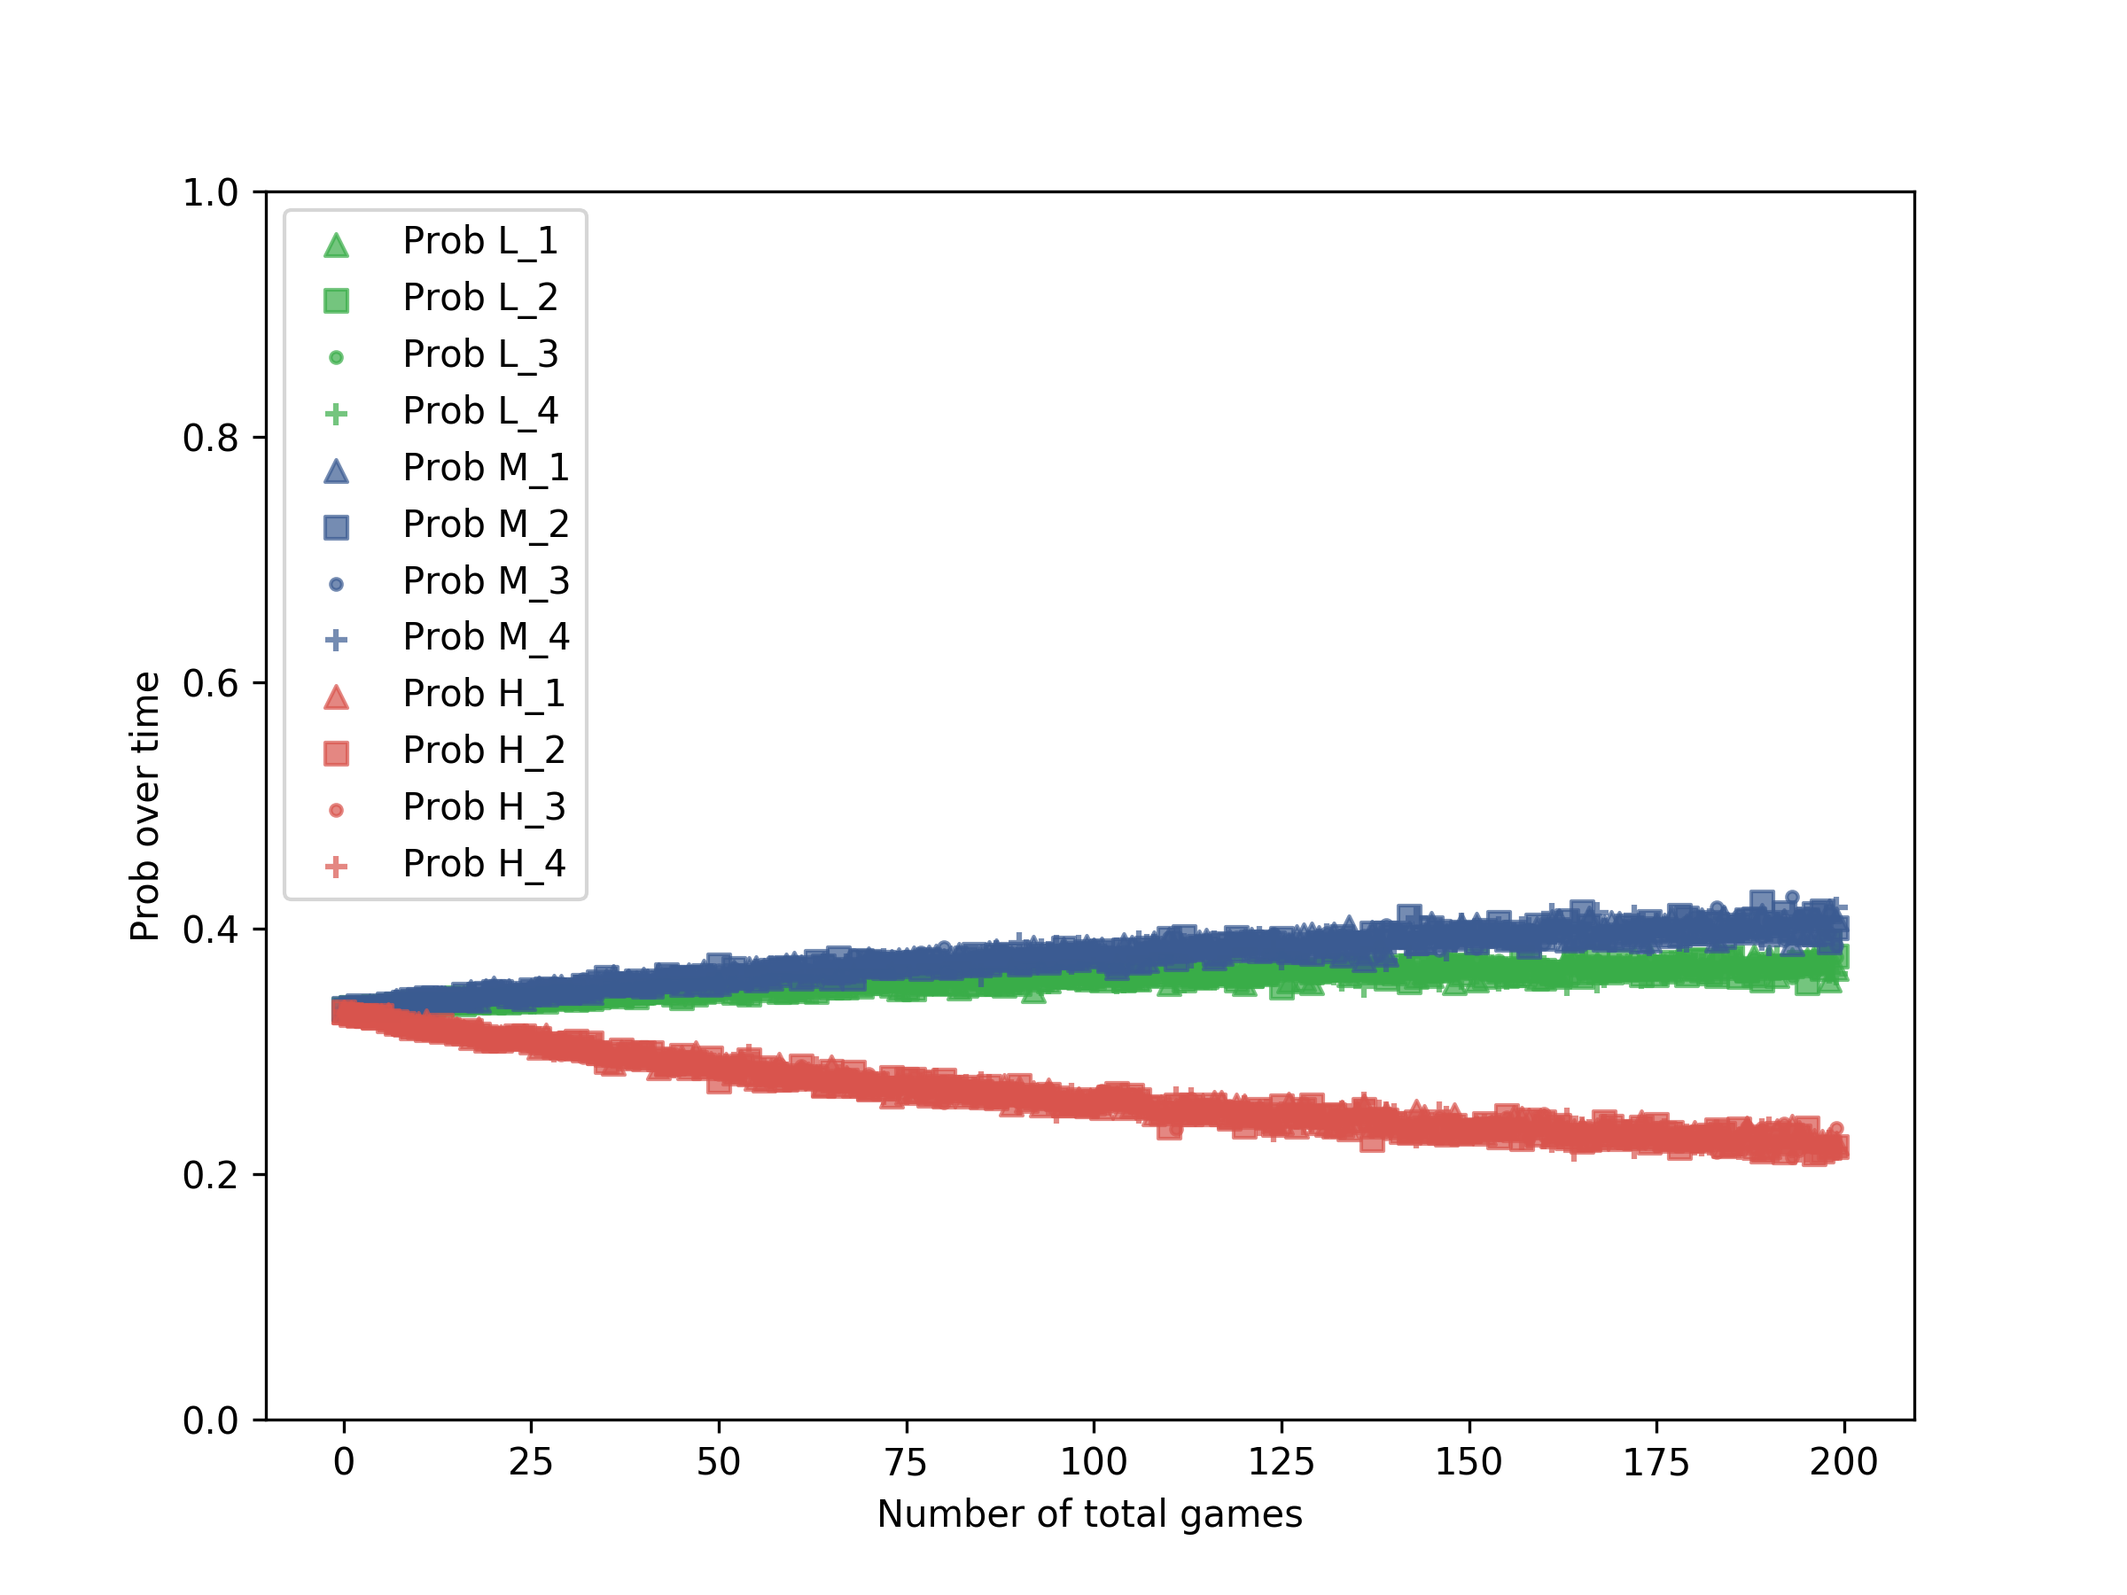
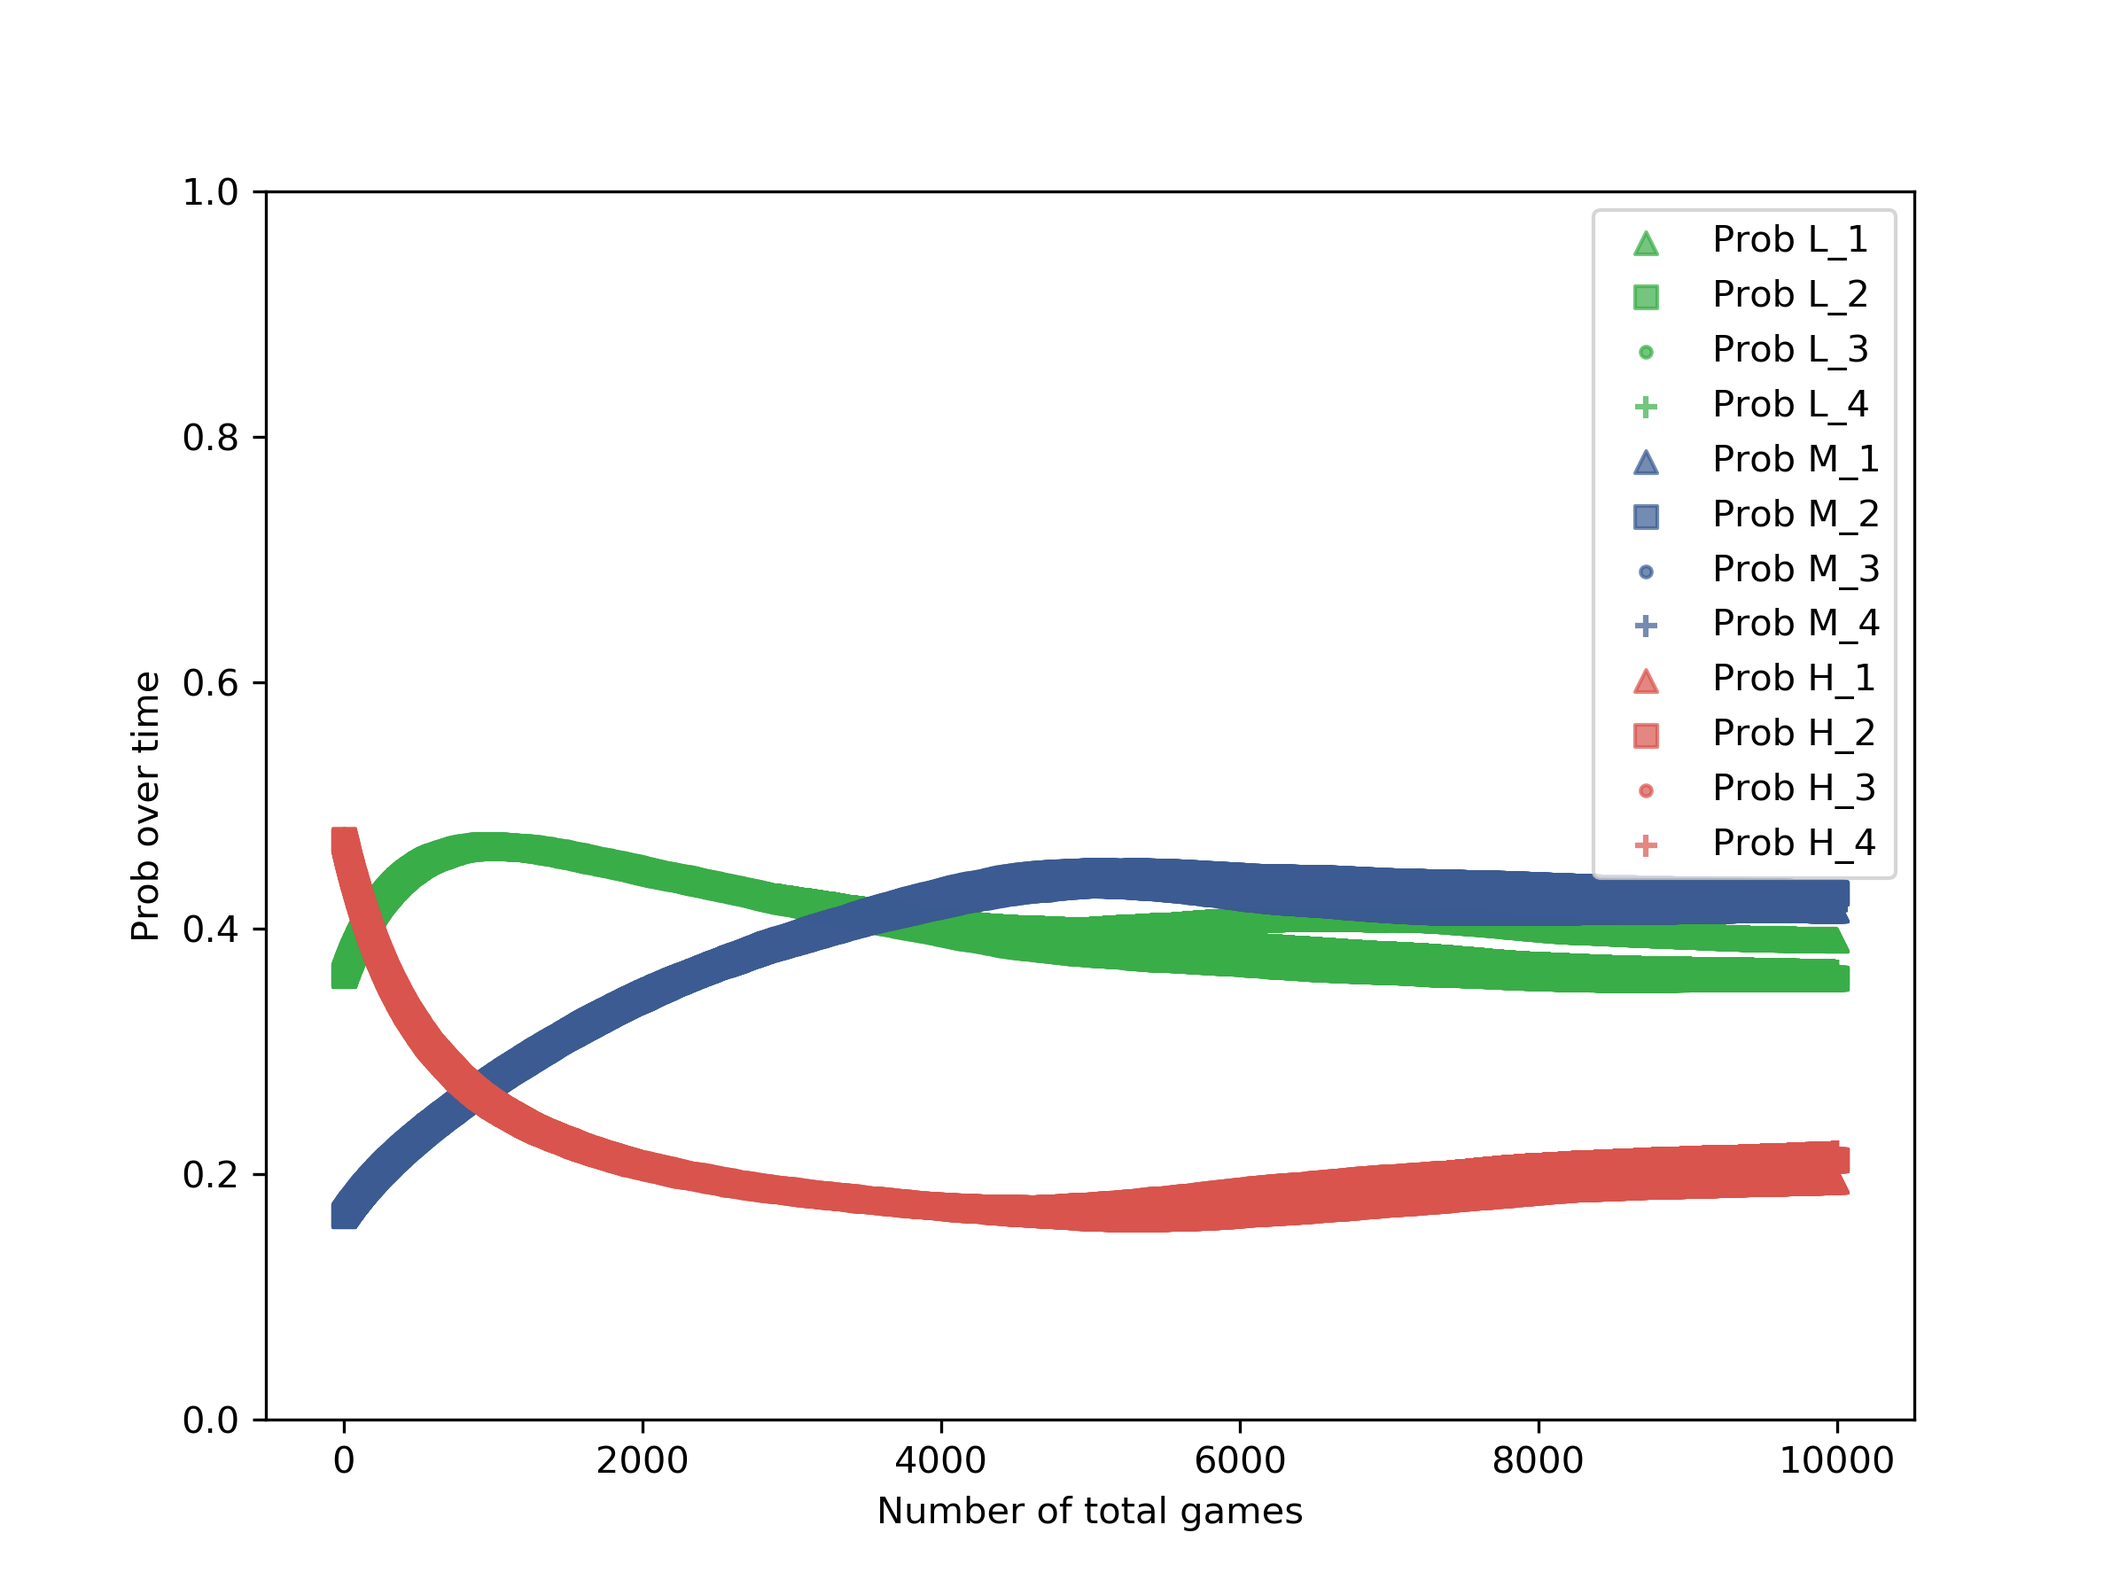
a great test

diff --git a/Find_NE.py b/Find_NE.py
@@ -19,11 +19,11 @@ from basic.advanced import *
 
 # basic setting
 
-max_game = 200
+max_game = 100000
 n_player = 4
 n_coin = 5
-n_test = 30
-lr = 5e-2
+n_test = 300
+lr = 1e-3
 bank_set_value("n_player", n_player)
 bank_set_value("n_coin", n_coin)
 bank_set_value("max_game", max_game)
@@ -62,159 +62,163 @@ choice = np.subtract(1, valid_table)
 history_prob = np.zeros((max_game, n_test, n_player, 3))
 
 # simulate
-for idx_game in range(max_game):
-
-    total_game = idx_game + 1
-
-    bank_set_value("total_game", total_game)
-    init_winner = np.zeros(n_player)
-
-    for idx_test in range(n_test):
-        game = A2F_Game()
-        para_list = copy.deepcopy(PARA_UNI)
-        for idx_round in range(total_game):
-
-            curr_action = invite_players(player_list=player_list,
-                                         game=game,
-                                         chessboard=chessboard,
-                                         para_list=para_list)
-
-            curr_round = A2F_Round(chessboard=chessboard, action=curr_action)
-
-            # two-direction training
-            curr_action_value = curr_action.get_value()
-            curr_result = np.sum(curr_action_value, axis=0)
-            new_para_list = []
-            for idx_update in range(n_player):
-                curr_aim = list(curr_action_value[idx_update]).index(1)
-                curr_coin = np.multiply(choice[idx_update], chessboard_value)
-                curr_sum = np.sum(curr_coin)
-                curr_para = para_list[idx_update]
-                loc_aim = reverse_table[idx_update][curr_aim]
-                if idx_update in [0, 1, 2, 3]:
-                    if curr_result[curr_aim] == 1:
-                        # right answer
-                        if curr_para[loc_aim] < 0.8:
-                            curr_para[loc_aim] *= 1+lr*(curr_coin[curr_aim]/curr_sum)
-                    else:
-                        # wrong answer
-                        if curr_para[loc_aim] > 0.1:
-                            curr_para[loc_aim] *= 1-lr*(curr_coin[curr_aim]/curr_sum)
-                temp_sum = np.sum(curr_para)
-                new_para = []
-                for idx in curr_para:
-                    new_para.append(idx/temp_sum)
-                if idx_round == max_game - 1:
-                    print("Round: ", idx_round, "Player: ", idx_update, "Prob: ", new_para)
-                new_para_list.append(new_para)
-                if idx_update in [0, 1, 2, 3]:
-                    history_prob[idx_game, idx_test, idx_update, :] = new_para
-
-            game.add_round(curr_round)
-            para_list = new_para_list
-            if idx_round == max_game - 1:
-                print("-------------------")
-
-
-        final_coin, best_player = game.winner()
-        init_winner += best_player
-
-    print(idx_game)
-    print(init_winner)
-    winning_rate[:, idx_game] = init_winner/n_test
-
-# draw curve
-time_stamp = datetime.datetime.now().strftime("-%Y-%m-%d-%H-%M")
-xmesh = np.array(range(max_game))
-plt.figure(figsize=(8, 6), dpi=300)
-plt.scatter(xmesh, winning_rate[0, :])
-plt.scatter(xmesh, winning_rate[1, :])
-plt.scatter(xmesh, winning_rate[2, :])
-plt.scatter(xmesh, winning_rate[3, :])
-plt.xlabel("Number of total games")
-plt.ylabel("Winning rate of players")
-plt.ylim(bottom=0, top=1)
-plt.legend(show_player_ID(player_list))
-plt.savefig("WinningRate_MaxGame"+time_stamp+".png")
-
-plt.figure(figsize=(8, 6), dpi=300)
-plt.scatter(xmesh, history_prob[:, 0, 0, 0], marker='^')
-plt.scatter(xmesh, history_prob[:, 0, 0, 1], marker='o')
-plt.scatter(xmesh, history_prob[:, 0, 0, 2], marker='s')
-
-plt.scatter(xmesh, history_prob[:, 0, 1, 0], marker='^')
-plt.scatter(xmesh, history_prob[:, 0, 1, 1], marker='o')
-plt.scatter(xmesh, history_prob[:, 0, 1, 2], marker='s')
-
-plt.scatter(xmesh, history_prob[:, 0, 2, 0], marker='^')
-plt.scatter(xmesh, history_prob[:, 0, 2, 1], marker='o')
-plt.scatter(xmesh, history_prob[:, 0, 2, 2], marker='s')
-
-plt.scatter(xmesh, history_prob[:, 0, 3, 0], marker='^')
-plt.scatter(xmesh, history_prob[:, 0, 3, 1], marker='o')
-plt.scatter(xmesh, history_prob[:, 0, 3, 2], marker='s')
-
-
-plt.xlabel("Number of total games")
-plt.ylabel("Prob over time")
-plt.ylim(bottom=0, top=1)
-plt.legend(["Prob L_1", "Prob M_1", "Prob H_!",
-            "Prob L_2", "Prob M_2", "Prob H_2",
-            "Prob L_3", "Prob M_3", "Prob H_3",
-            "Prob L_4", "Prob M_4", "Prob H_4"])
-plt.savefig("Prob"+time_stamp+".png")
-np.save("prob.npy",history_prob )
-
-
-# # simple find the prob
-# total_game = max_game
+# for idx_game in range(max_game):
 #
-# bank_set_value("total_game", total_game)
-# init_winner = np.zeros(n_player)
+#     total_game = idx_game + 1
 #
-# for idx_test in range(n_test):
-#     game = A2F_Game()
-#     para_list = copy.deepcopy(PARA_SYM_NE)
-#     for idx_round in range(total_game):
+#     bank_set_value("total_game", total_game)
+#     init_winner = np.zeros(n_player)
 #
-#         curr_action = invite_players(player_list=player_list,
-#                                      game=game,
-#                                      chessboard=chessboard,
-#                                      para_list=para_list)
+#     for idx_test in range(n_test):
+#         game = A2F_Game()
+#         para_list = copy.deepcopy(PARA_UNI)
+#         for idx_round in range(total_game):
 #
-#         curr_round = A2F_Round(chessboard=chessboard, action=curr_action)
+#             curr_action = invite_players(player_list=player_list,
+#                                          game=game,
+#                                          chessboard=chessboard,
+#                                          para_list=para_list)
 #
-#         # two-direction training
-#         curr_action_value = curr_action.get_value()
-#         curr_result = np.sum(curr_action_value, axis=0)
-#         new_para_list = []
-#         for idx_update in range(n_player):
-#             curr_aim = list(curr_action_value[idx_update]).index(1)
-#             curr_coin = np.multiply(choice[idx_update], chessboard_value)
-#             curr_sum = np.sum(curr_coin)
-#             curr_para = para_list[idx_update]
-#             loc_aim = reverse_table[idx_update][curr_aim]
-#             if curr_result[curr_aim] == 1:
-#                 # right answer
-#                 if curr_para[loc_aim] < 0.8:
-#                     curr_para[loc_aim] *= 1+lr*(curr_coin[curr_aim]/curr_sum)
-#             else:
-#                 # wrong answer
-#                 if curr_para[loc_aim] > 0.1:
-#                     curr_para[loc_aim] *= 1-lr*(curr_coin[curr_aim]/curr_sum)
-#             temp_sum = np.sum(curr_para)
-#             new_para = []
-#             for idx in curr_para:
-#                 new_para.append(idx/temp_sum)
+#             curr_round = A2F_Round(chessboard=chessboard, action=curr_action)
+#
+#             # two-direction training
+#             curr_action_value = curr_action.get_value()
+#             curr_result = np.sum(curr_action_value, axis=0)
+#             new_para_list = []
+#             for idx_update in range(n_player):
+#                 curr_aim = list(curr_action_value[idx_update]).index(1)
+#                 curr_coin = np.multiply(choice[idx_update], chessboard_value)
+#                 curr_sum = np.sum(curr_coin)
+#                 curr_para = para_list[idx_update]
+#                 loc_aim = reverse_table[idx_update][curr_aim]
+#                 if idx_update in [0, 1, 2, 3]:
+#                     if curr_result[curr_aim] == 1:
+#                         # right answer
+#                         if curr_para[loc_aim] < 0.8:
+#                             curr_para[loc_aim] *= 1+lr*(curr_coin[curr_aim]/curr_sum)
+#                     else:
+#                         # wrong answer
+#                         if curr_para[loc_aim] > 0.1:
+#                             curr_para[loc_aim] *= 1-lr*(curr_coin[curr_aim]/curr_sum)
+#                 temp_sum = np.sum(curr_para)
+#                 new_para = []
+#                 for idx in curr_para:
+#                     new_para.append(idx/temp_sum)
+#                 if idx_round == max_game - 1:
+#                     print("Round: ", idx_round, "Player: ", idx_update, "Prob: ", new_para)
+#                 new_para_list.append(new_para)
+#                 if idx_update in [0, 1, 2, 3]:
+#                     history_prob[idx_game, idx_test, idx_update, :] = new_para
+#
+#             game.add_round(curr_round)
+#             para_list = new_para_list
 #             if idx_round == max_game - 1:
-#                 print("Round: ", idx_round, "Player: ", idx_update, "Prob: ", new_para)
-#             new_para_list.append(new_para)
-#
-#         game.add_round(curr_round)
-#         para_list = new_para_list
-#         if idx_round == max_game - 1:
-#             print("-------------------")
+#                 print("-------------------")
 #
 #
-#     final_coin, best_player = game.winner()
-#     init_winner += best_player
+#         final_coin, best_player = game.winner()
+#         init_winner += best_player
+#
+#     print(idx_game)
+#     print(init_winner)
+#     winning_rate[:, idx_game] = init_winner/n_test
+#
+# # draw curve
+# time_stamp = datetime.datetime.now().strftime("-%Y-%m-%d-%H-%M")
+# xmesh = np.array(range(max_game))
+# plt.figure(figsize=(8, 6), dpi=300)
+# plt.scatter(xmesh, winning_rate[0, :])
+# plt.scatter(xmesh, winning_rate[1, :])
+# plt.scatter(xmesh, winning_rate[2, :])
+# plt.scatter(xmesh, winning_rate[3, :])
+# plt.xlabel("Number of total games")
+# plt.ylabel("Winning rate of players")
+# plt.ylim(bottom=0, top=1)
+# plt.legend(show_player_ID(player_list))
+# plt.savefig("WinningRate_MaxGame"+time_stamp+".png")
+
+# plt.figure(figsize=(8, 6), dpi=300)
+# plt.scatter(xmesh, history_prob[:, 0, 0, 0], marker='^')
+# plt.scatter(xmesh, history_prob[:, 0, 0, 1], marker='o')
+# plt.scatter(xmesh, history_prob[:, 0, 0, 2], marker='s')
+#
+# plt.scatter(xmesh, history_prob[:, 0, 1, 0], marker='^')
+# plt.scatter(xmesh, history_prob[:, 0, 1, 1], marker='o')
+# plt.scatter(xmesh, history_prob[:, 0, 1, 2], marker='s')
+#
+# plt.scatter(xmesh, history_prob[:, 0, 2, 0], marker='^')
+# plt.scatter(xmesh, history_prob[:, 0, 2, 1], marker='o')
+# plt.scatter(xmesh, history_prob[:, 0, 2, 2], marker='s')
+#
+# plt.scatter(xmesh, history_prob[:, 0, 3, 0], marker='^')
+# plt.scatter(xmesh, history_prob[:, 0, 3, 1], marker='o')
+# plt.scatter(xmesh, history_prob[:, 0, 3, 2], marker='s')
+#
+#
+# plt.xlabel("Number of total games")
+# plt.ylabel("Prob over time")
+# plt.ylim(bottom=0, top=1)
+# plt.legend(["Prob L_1", "Prob M_1", "Prob H_!",
+#             "Prob L_2", "Prob M_2", "Prob H_2",
+#             "Prob L_3", "Prob M_3", "Prob H_3",
+#             "Prob L_4", "Prob M_4", "Prob H_4"])
+# plt.savefig("Prob"+time_stamp+".png")
+# np.save("prob.npy",history_prob )
+
+
+# simple find the prob
+total_game = max_game
+
+bank_set_value("total_game", total_game)
+init_winner = np.zeros(n_player)
+history_prob = np.zeros((max_game, n_test, n_player, 3))
+
+for idx_test in range(n_test):
+    game = A2F_Game()
+    para_list = copy.deepcopy(PARA_SYM_NE)
+    for idx_round in range(total_game):
+
+        curr_action = invite_players(player_list=player_list,
+                                     game=game,
+                                     chessboard=chessboard,
+                                     para_list=para_list)
+
+        curr_round = A2F_Round(chessboard=chessboard, action=curr_action)
+
+        # two-direction training
+        curr_action_value = curr_action.get_value()
+        curr_result = np.sum(curr_action_value, axis=0)
+        new_para_list = []
+        for idx_update in range(n_player):
+            curr_aim = list(curr_action_value[idx_update]).index(1)
+            curr_coin = np.multiply(choice[idx_update], chessboard_value)
+            curr_sum = np.sum(curr_coin)
+            curr_para = para_list[idx_update]
+            loc_aim = reverse_table[idx_update][curr_aim]
+            if curr_result[curr_aim] == 1:
+                # right answer
+                if curr_para[loc_aim] < 0.8:
+                    curr_para[loc_aim] *= 1+lr*(curr_coin[curr_aim]/curr_sum)
+            else:
+                # wrong answer
+                if curr_para[loc_aim] > 0.1:
+                    curr_para[loc_aim] *= 1-lr*(curr_coin[curr_aim]/curr_sum)
+            temp_sum = np.sum(curr_para)
+            new_para = []
+            for idx in curr_para:
+                new_para.append(idx/temp_sum)
+            # if idx_round == max_game - 1:
+            #     print("Round: ", idx_round, "Player: ", idx_update, "Prob: ", new_para)
+            new_para_list.append(new_para)
+            history_prob[idx_round, idx_test, idx_update, :] = new_para
+
+        game.add_round(curr_round)
+        para_list = new_para_list
+        # if idx_round == max_game - 1:
+        #     print("-------------------")
+    final_coin, best_player = game.winner()
+    init_winner += best_player
+
+    print(idx_test)
+
+np.save("prob_100000.npy", history_prob)

diff --git a/plot.py b/plot.py
@@ -7,11 +7,11 @@ mpl.use('TkAgg')
 import matplotlib.pyplot as plt
 import seaborn as sns
 
-max_game = 200
 n_player = 4
-xmesh = np.array(range(max_game))
-history_prob = np.load("prob.npy")
+history_prob = np.load("prob_100000.npy")
 print(history_prob.shape)
+max_game = history_prob.shape[0]
+xmesh = np.array(range(max_game))
 # print(history_prob[:, 0, 1])
 
 plt.figure(figsize=(8, 6), dpi=300)
@@ -58,6 +58,11 @@ plt.scatter(xmesh, prob_high[:, 1], marker='s', c=sns.xkcd_rgb["pale red"], alph
 plt.scatter(xmesh, prob_high[:, 2], marker='.', c=sns.xkcd_rgb["pale red"], alpha=trans)
 plt.scatter(xmesh, prob_high[:, 3], marker='+', c=sns.xkcd_rgb["pale red"], alpha=trans)
 
+avg_low = round(float(np.mean(prob_low[-1, :])), 6)
+avg_medium = round(float(np.mean(prob_medium[-1, :])), 6)
+avg_high = round(float(np.mean(prob_high[-1, :])), 6)
+
+plt.title("[Low, Medium, High] = ["+str(avg_low)+", "+str(avg_medium)+", "+str(avg_high)+"]")
 plt.legend(["Prob L_1", "Prob L_2", "Prob L_3", "Prob L_4",
             "Prob M_1", "Prob M_2", "Prob M_3", "Prob M_4",
             "Prob H_1", "Prob H_2", "Prob H_3", "Prob H_4"])
@@ -88,5 +93,5 @@ plt.legend(["Prob L_1", "Prob L_2", "Prob L_3", "Prob L_4",
 plt.xlabel("Number of total games")
 plt.ylabel("Prob over time")
 plt.ylim(bottom=0, top=1)
-plt.savefig("Prob_200.png")
+plt.savefig("Prob_100000.png")
 np.save("prob.npy",history_prob )
